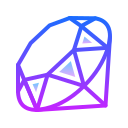
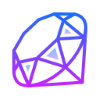
adjusted image sizes

diff --git a/src/components/Card/Card.js b/src/components/Card/Card.js
@@ -46,7 +46,8 @@ const ImageContainer = styled.div`
 
 const Image = styled.img`
     object-fit: cover;
-    width: 100%;
+    max-width: 100%;
+    max-height: 100%;
 `
 
 export default function AnimatedCards({ number = 1, data}) {

diff --git a/src/components/Skillset/Skillset.js b/src/components/Skillset/Skillset.js
@@ -60,7 +60,7 @@ const Header = styled.h1`
 const Tag = styled.h3`
     font-family: Lora;
     font-size: 2em;
-    margin-bottom: 106px;
+    margin-bottom: 80px;
     color: #eee;
 `
 
